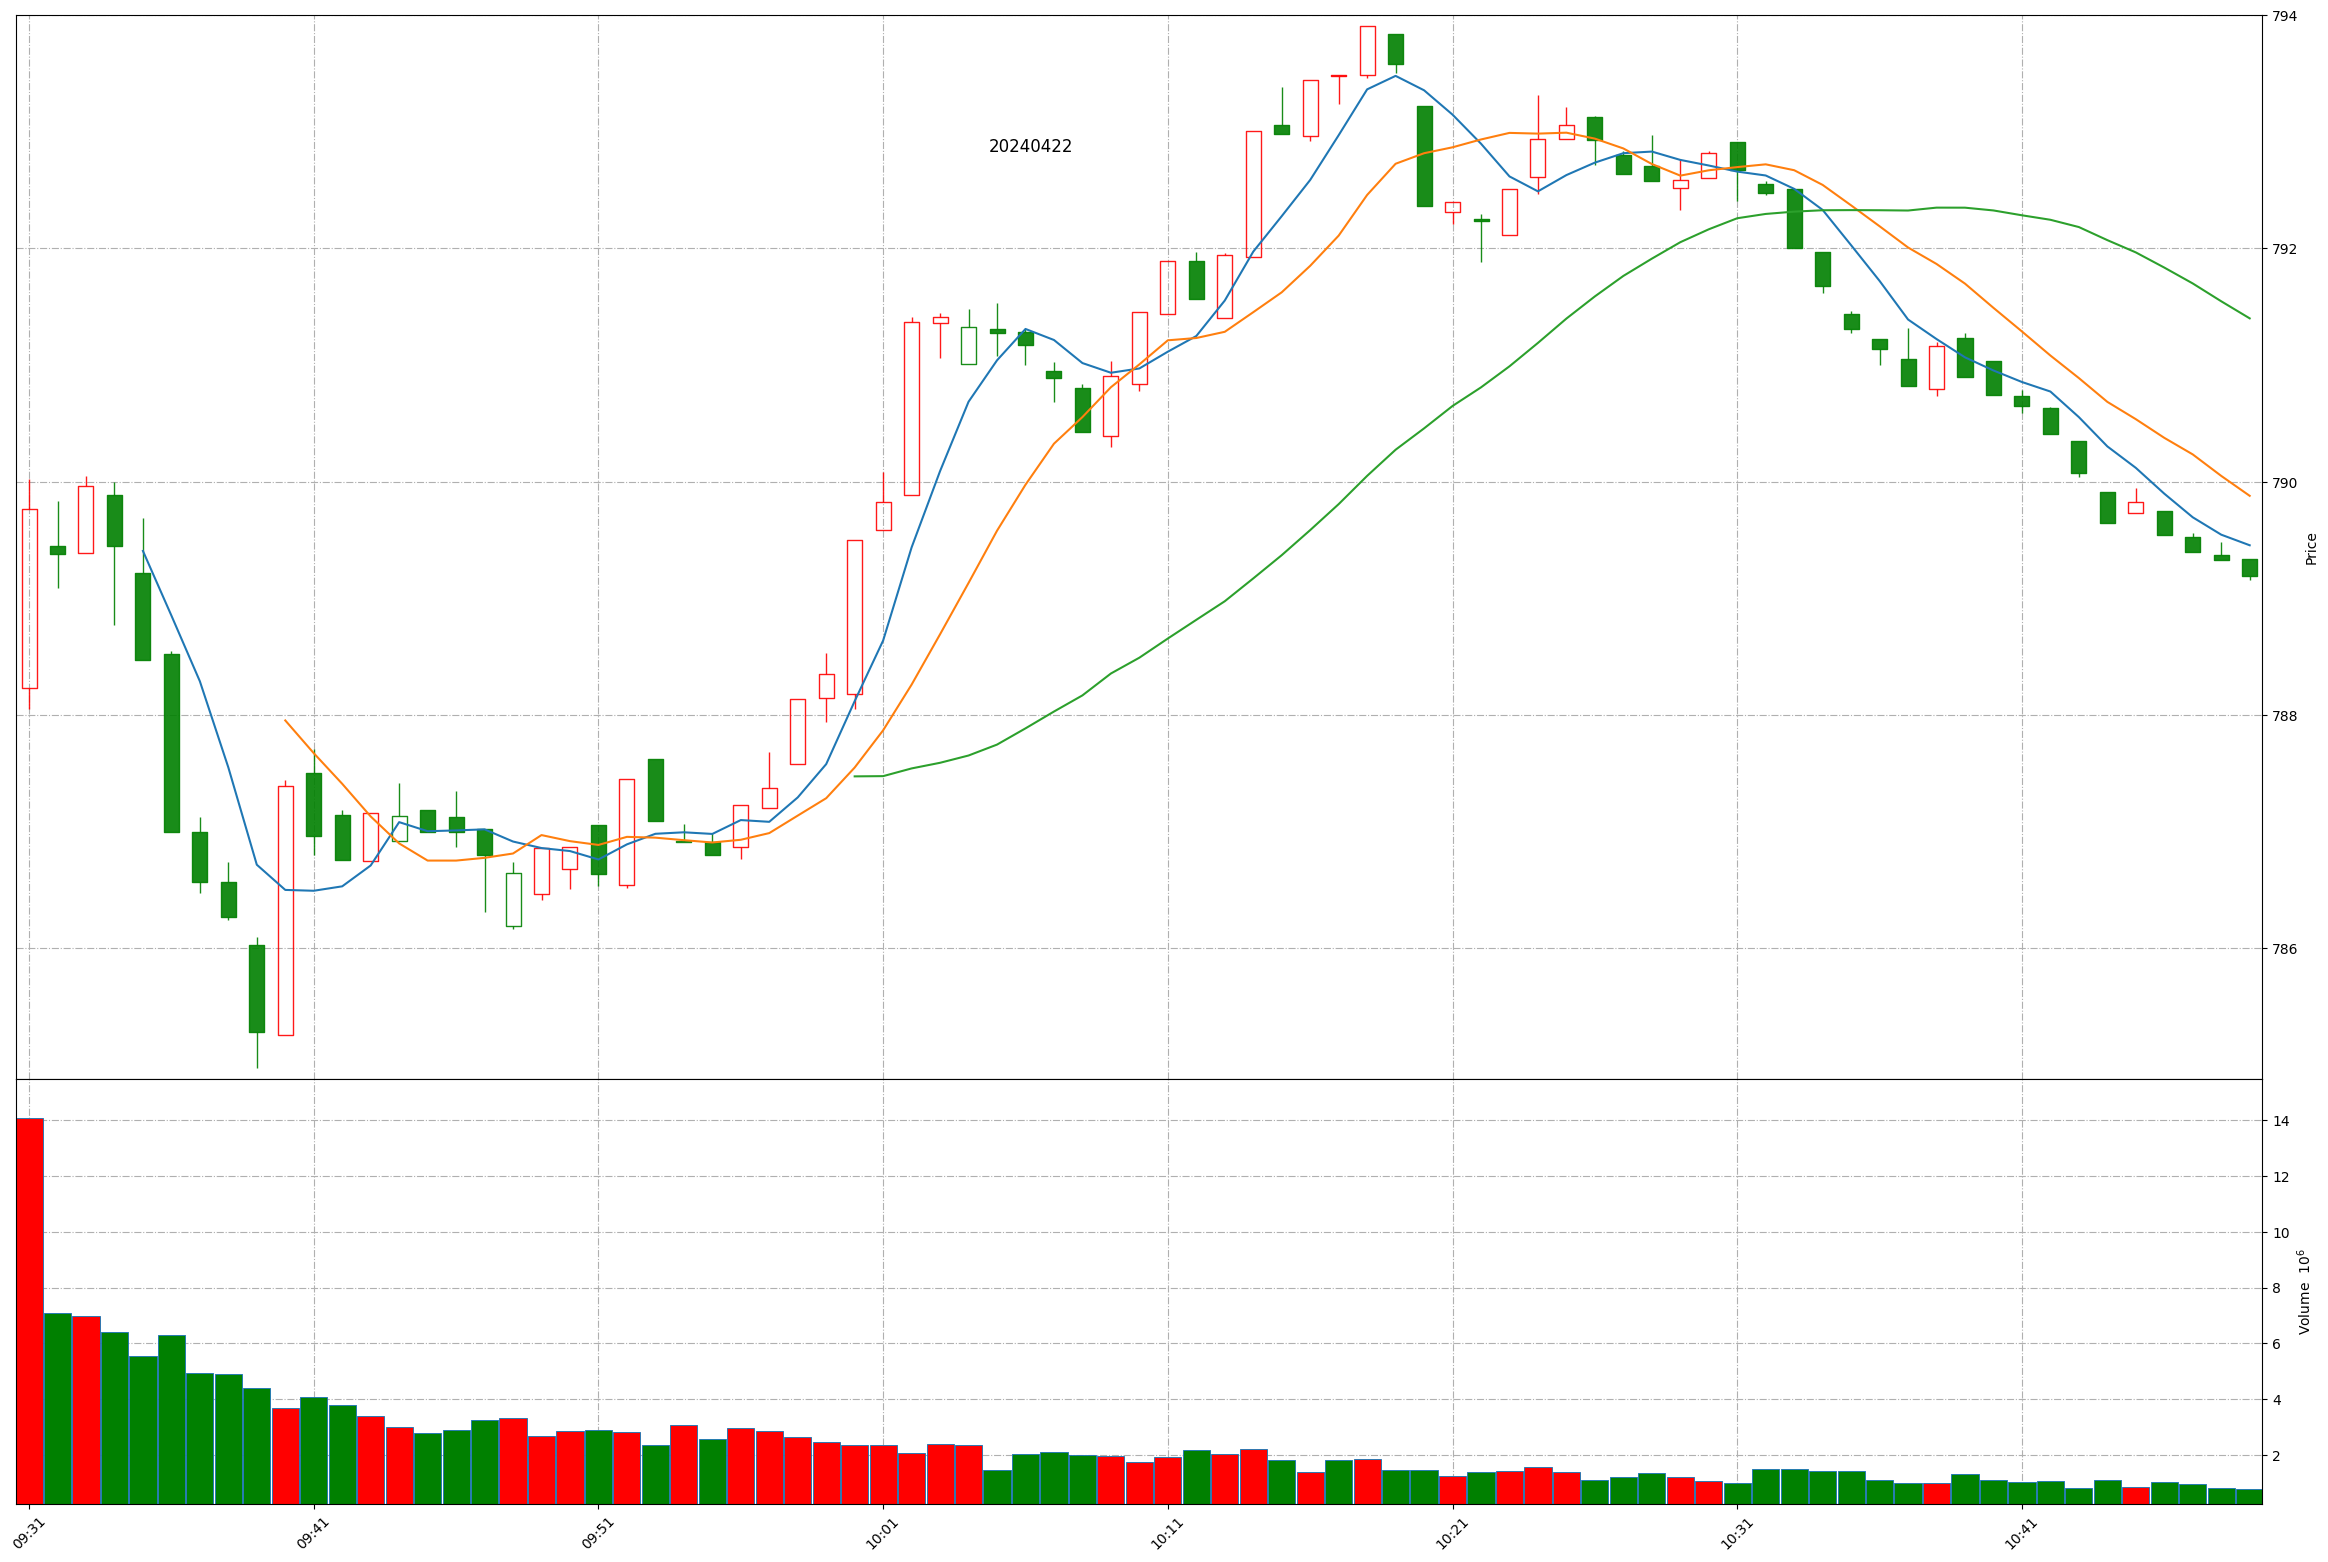
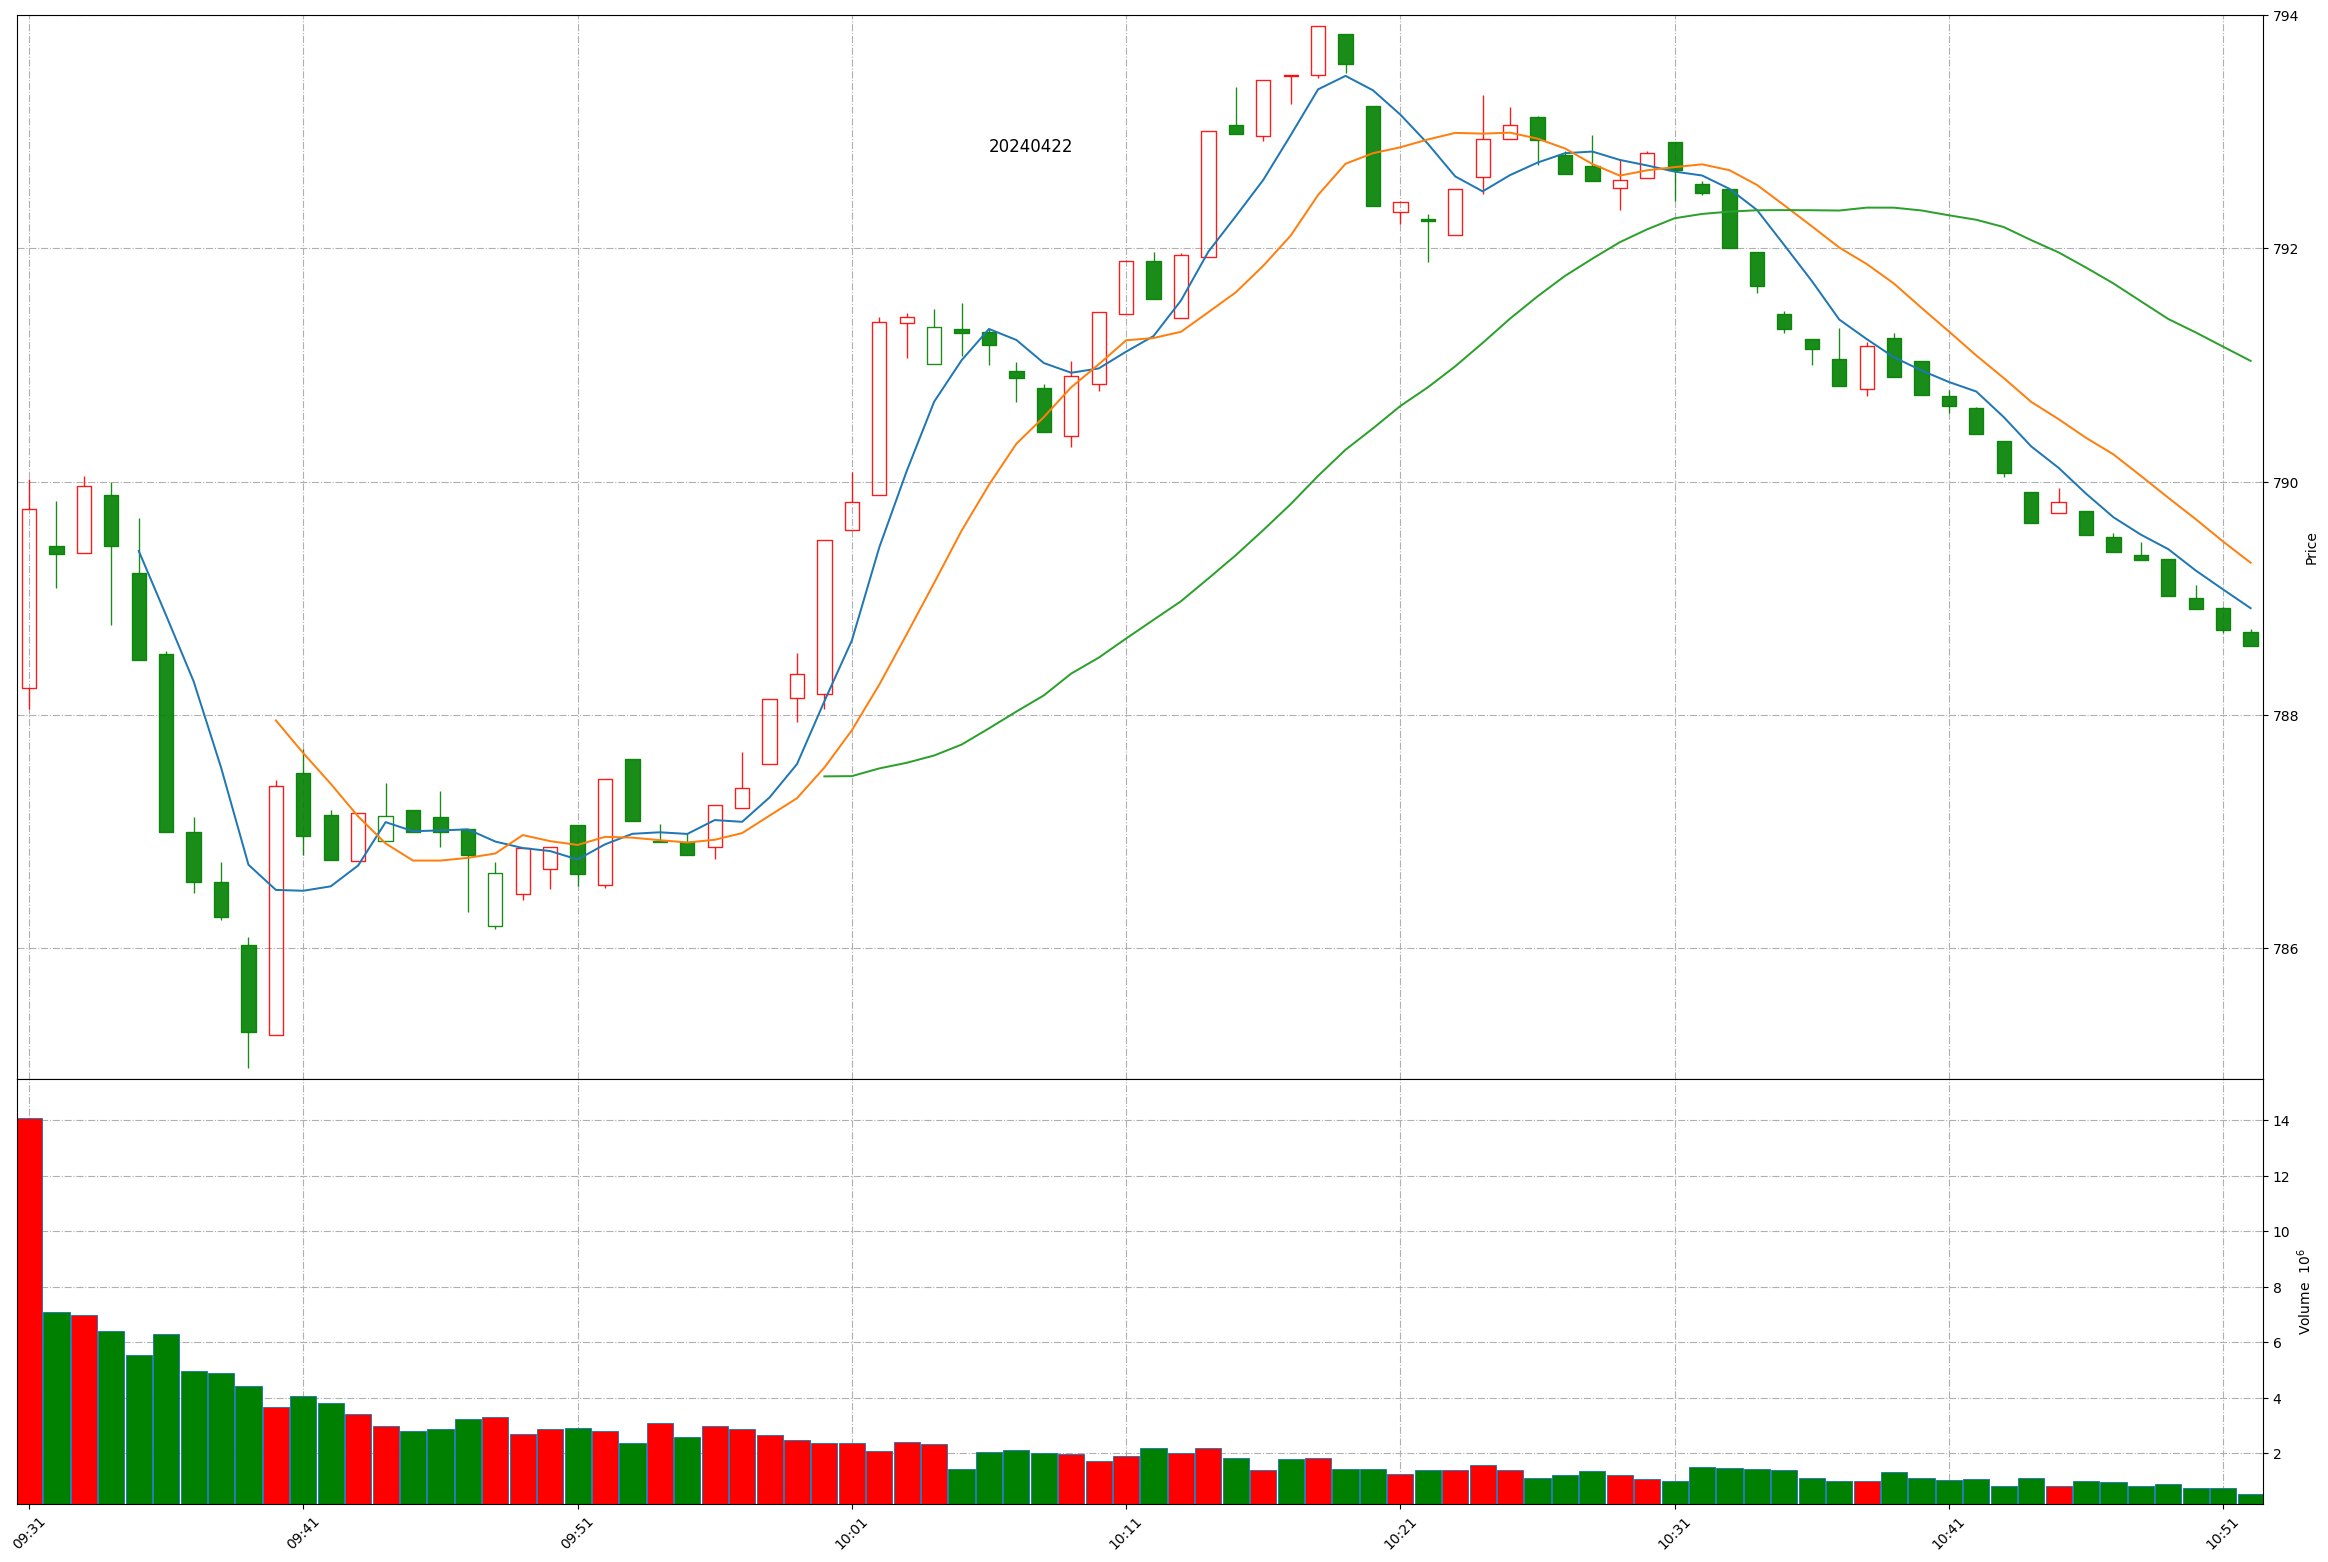
Github action update at 2024-04-22 10:51:45.

diff --git a/README.md b/README.md
@@ -1,11 +1,11 @@
 
 # Daily-A-share-market-quotes 每日 A 股指数（5min 更新）- 20240422
 
-### 上证指数 20240422 10:48
+### 上证指数 20240422 10:51
 ![](./fig/2024/4/20240422-sh000001.png)
 
-### 深证成指 20240422 10:48
+### 深证成指 20240422 10:51
 ![](./fig/2024/4/20240422-sz399001.png)
 
-### 北证50 20240422 10:48
+### 北证50 20240422 10:51
 ![](./fig/2024/4/20240422-bj899050.png)
